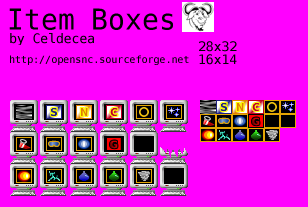
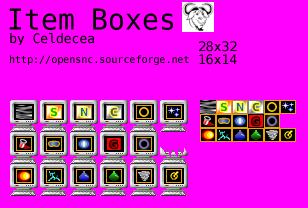
Small changes on item_box.png and spikes.png, thanks to Alberto Pessoa

diff --git a/src/scenes/credits.c b/src/scenes/credits.c
@@ -74,6 +74,8 @@ static char credits_text[] =
     "J0nnJ0nes\n"
     "Felicia-Val\n"
     "Joepotato28\n"
+    "Alberto Pessoa\n"
+    "SuperTux Team\n"
     "\n"
 
     "\n<color=ffff00>$CREDITS_RETIRED</color>\n\n"
